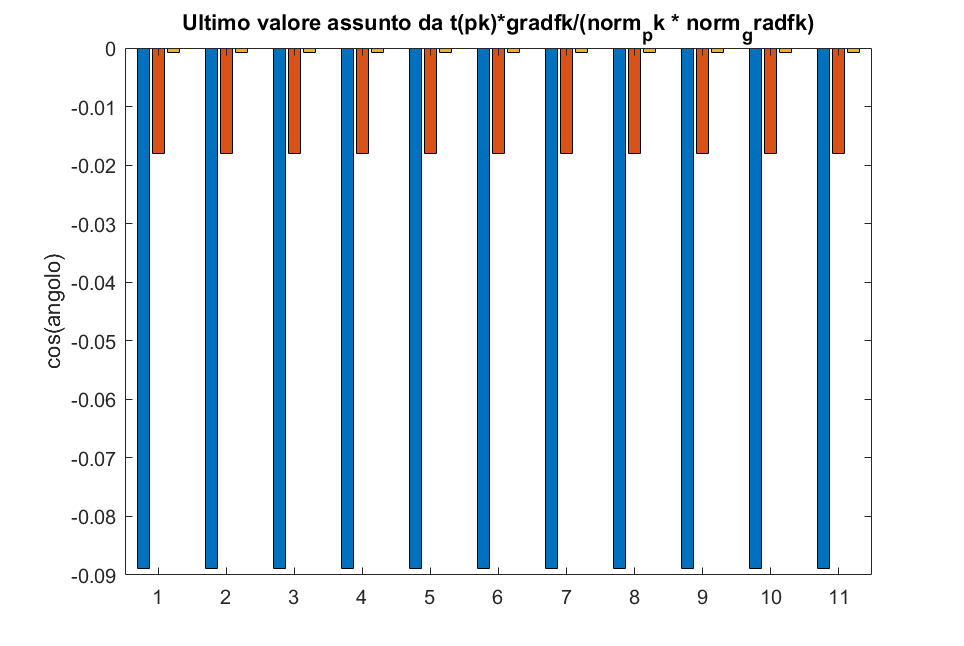
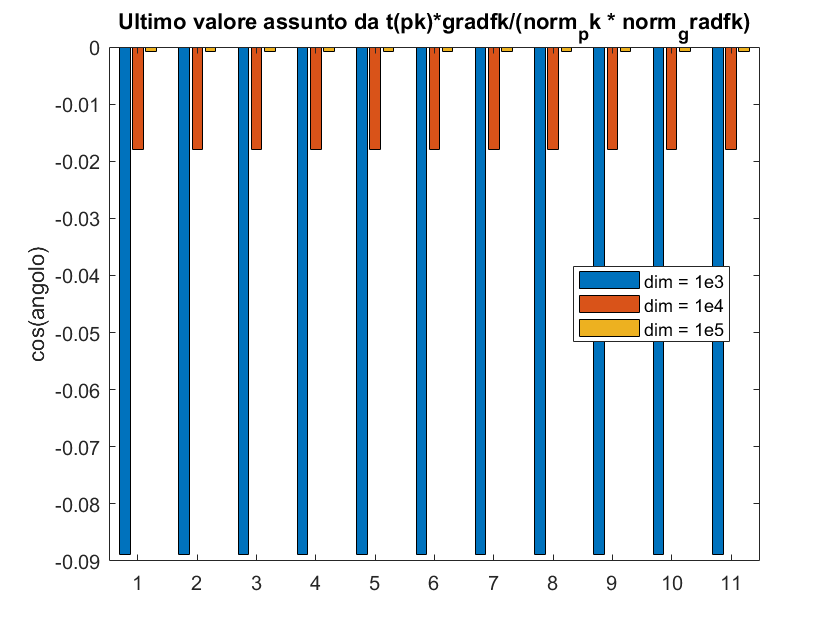
ho sistemato una fig

Changed region(s): [[0.031, 0.0, 0.8976, 0.9349]]

diff --git a/codes/problem_76.m b/codes/problem_76.m
@@ -297,6 +297,9 @@ end
 bar(ultima_direz_discesa')
 ylabel('cos(angolo)')
 title('Ultimo valore assunto da t(pk)*gradfk/(norm_pk * norm_gradfk)')
+legend({'dim = 1e3', 'dim = 1e4', 'dim = 1e5'}, "Box", 'on', 'Location', 'best')
+
+
 
 varNames = ["avg fbest", "avg gradf_norm","avg num of iters", "avg time of exec (sec)", "n failure", "avg roc"];
 rowNames = string(dimension');

diff --git a/codes/problem_64.m b/codes/problem_64.m
@@ -315,6 +315,7 @@ end
 bar(ultima_direz_discesa')
 ylabel('cos(angolo)')
 title('Ultimo valore assunto da t(pk)*gradfk/(norm_pk * norm_gradfk)')
+legend({'dim = 1e3', 'dim = 1e4', 'dim = 1e5'}, "Box", 'on', 'Location', 'best')
 
 varNames = ["avg fbest", "avg gradf_norm","avg num of iters", "avg time of exec (sec)", "n failure", "avg roc"];
 rowNames = string(dimension');

diff --git a/codes/modified_Newton.m b/codes/modified_Newton.m
@@ -116,7 +116,7 @@ while k < itermax && sum(gradfk.^2) > tolgrad^2
 
                 % mi preparo per un eventual step successivo
                 k_tau = k_tau+1;
-                tau_0 = max(beta, 2*tau_0);
+                tau_0 = max(beta, 5*tau_0);
             end
 
             if k_tau == tau_kmax && p > 0
